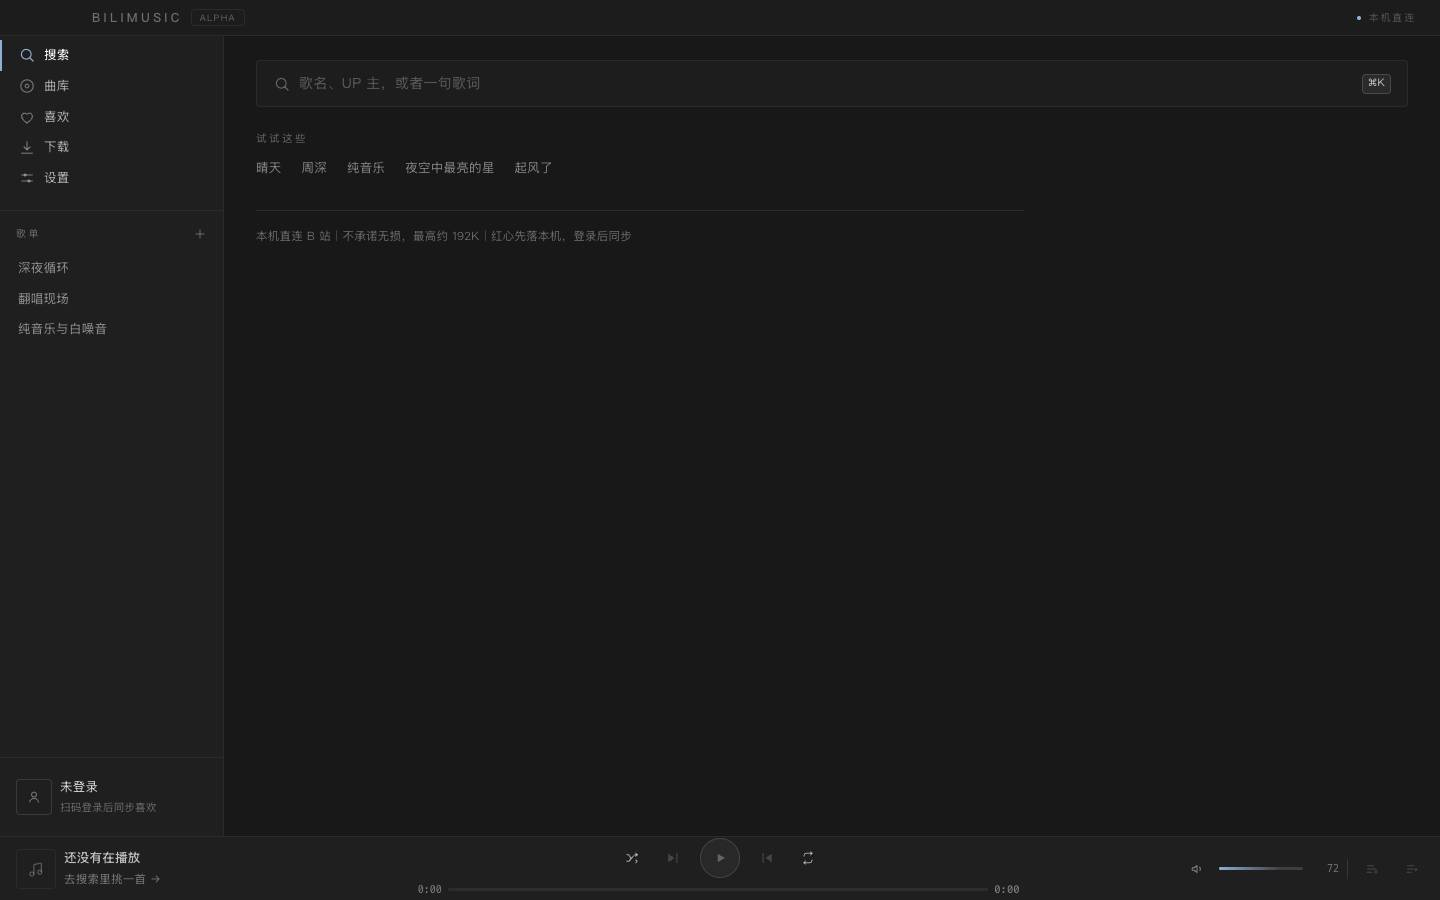
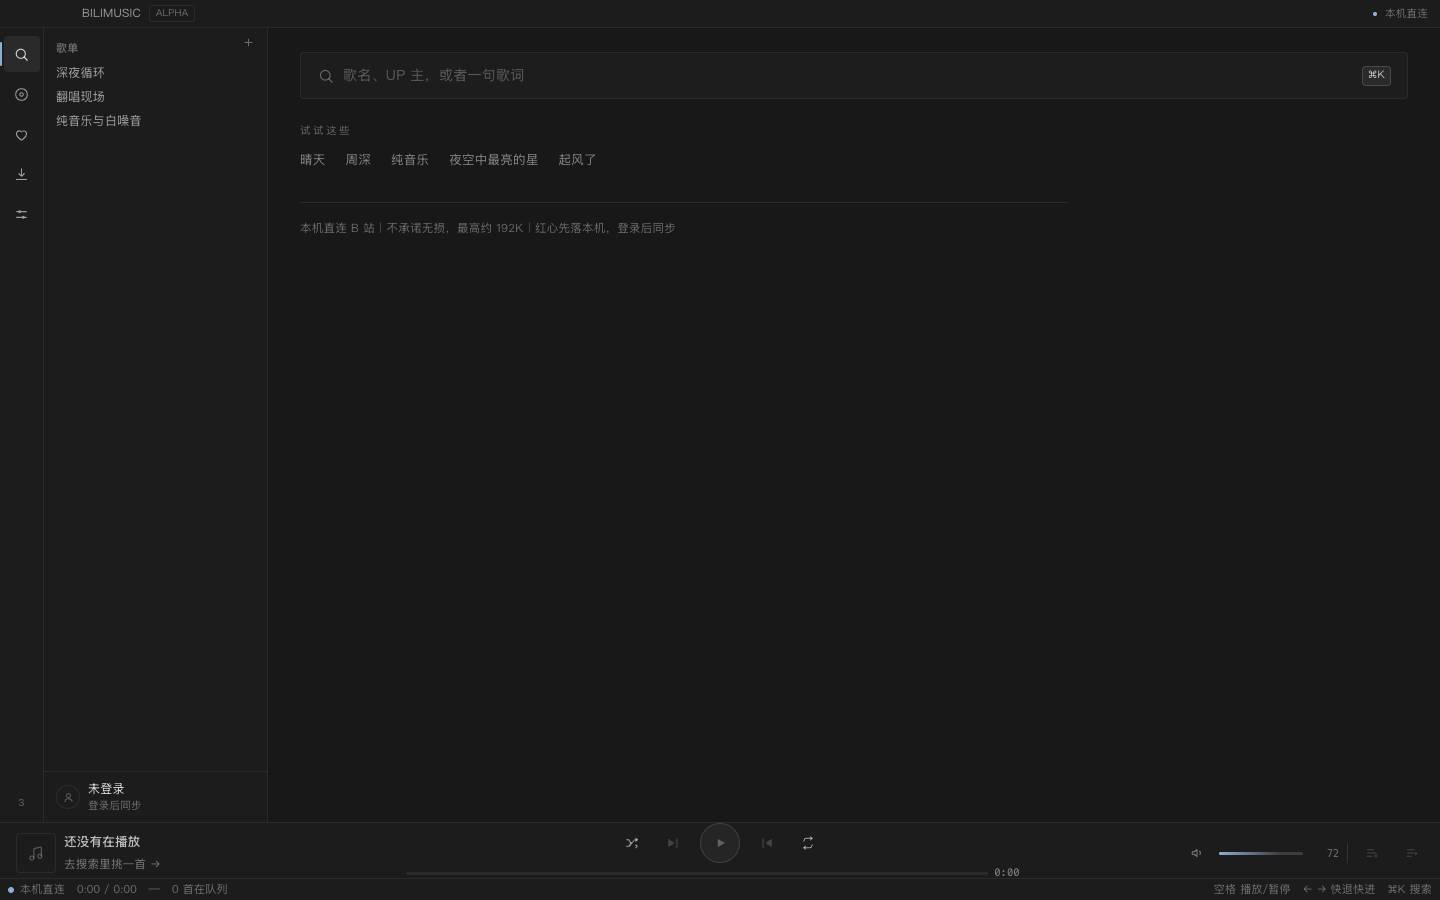
style: 五段式编辑器骨架——图标条、浏览器侧栏、状态条、24px 行高与 hover 填充

diff --git a/apps/desktop/src/app/Sidebar.tsx b/apps/desktop/src/app/Sidebar.tsx
@@ -2,26 +2,17 @@ import { useState } from 'react'
 import type { View } from './appStore'
 import { useAppStore } from './appStore'
 import { useAuthStore } from '../features/auth/authStore'
-import { useDownloadsStore } from '../features/downloads/downloadsStore'
 import { useLibraryStore } from '../features/library/libraryStore'
-import { useReactionStore } from '../features/reactions/reactionStore'
 import { CreatePlaylistModal } from '../features/library/CreatePlaylistModal'
 import { Icon } from '../shared/ui/Icon'
-import type { IconName } from '../shared/ui/Icon'
 import { Skeleton } from '../shared/ui/Skeleton'
 
-type NavItem = { view: View; label: string; icon: IconName }
-
-const NAV: readonly NavItem[] = [
-  { view: { kind: 'search' }, label: '搜索', icon: 'search' },
-  { view: { kind: 'library' }, label: '曲库', icon: 'library' },
-  { view: { kind: 'liked' }, label: '喜欢', icon: 'heart' },
-  { view: { kind: 'downloads' }, label: '下载', icon: 'download' },
-  { view: { kind: 'settings' }, label: '设置', icon: 'settings' },
-]
-
-/** 左栏与主区共用同一条发丝线：激活项靠左侧 2px 色条标记，不再铺底色。 */
-const ROW = 't group flex items-center border-l-2 text-left'
+/** 侧栏行：24px 高，hover 是深灰填充而不是只改文字色——这是编辑器式列表的通用手感。 */
+const ROW =
+  't mx-1 flex h-6 items-center gap-2 rounded-[3px] px-2 text-left text-[12px]'
+const ROW_IDLE = 'text-[var(--text-2)] hover:bg-[var(--hover)] hover:text-[var(--text-1)]'
+const ROW_ACTIVE = 'bg-[var(--hover)] text-[var(--text-1)]'
+const SECTION = 'px-3 pb-1 pt-3 text-[11px] font-medium text-[var(--text-3)]'
 
 export function Sidebar() {
   const view = useAppStore((state) => state.view)
@@ -29,65 +20,36 @@ export function Sidebar() {
   const setAuthOpen = useAppStore((state) => state.setAuthOpen)
   const playlists = useLibraryStore((state) => state.playlists)
   const auth = useAuthStore((state) => state.auth)
-  const likedCount = useReactionStore((state) => state.likedTracks.length)
-  const downloads = useDownloadsStore((state) => state.items)
   const [creating, setCreating] = useState(false)
 
-  const runningDownloads = (downloads ?? []).filter((item) => item.state === 'running' || item.state === 'queued').length
   const user = auth?.logged_in === true ? auth.user : null
 
   return (
-    <aside className="flex w-[224px] shrink-0 flex-col overflow-hidden border-r border-hairline bg-[var(--panel)]">
-      <nav className="flex flex-col pt-1">
-        {NAV.map((item) => {
-          const active = view.kind === item.view.kind
-          const badge = item.view.kind === 'liked' ? likedCount : item.view.kind === 'downloads' ? runningDownloads : 0
-          return (
-            <button
-              key={item.view.kind}
-              type="button"
-              aria-current={active ? 'page' : undefined}
-              onClick={() => navigate(item.view)}
-              className={[
-                ROW,
-                'gap-2 px-4 py-1.5 text-[12.5px]',
-                active ? 'border-[var(--accent)] text-white' : 'border-transparent text-white/62 hover:text-white',
-              ].join(' ')}
-            >
-              <span className={active ? 'text-[var(--accent)]' : 'text-white/40 group-hover:text-white/80'}>
-                <Icon name={item.icon} />
-              </span>
-              <span className="flex-1">{item.label}</span>
-              {badge > 0 ? (
-                <span className="rounded-full bg-white/10 px-1.5 py-[1px] font-mono text-[10px] text-white/55">{badge}</span>
-              ) : null}
-            </button>
-          )
-        })}
-      </nav>
-
-      <div className="mt-4 flex items-center justify-between border-t border-hairline pl-4 pr-3 pb-1 pt-3">
-        <span className="text-[10px] uppercase tracking-[0.22em] text-white/32">歌单</span>
+    <aside className="flex w-[224px] shrink-0 flex-col overflow-hidden border-r border-hairline bg-[var(--panel-alt)]">
+      <div className="flex items-center justify-between pr-2">
+        <span className={SECTION}>歌单</span>
         <button
           type="button"
           aria-label="新建歌单"
           title="新建歌单"
           onClick={() => setCreating(true)}
-          className="t press rounded-[4px] p-1 text-white/34 hover:text-white"
+          className="t -mt-1 rounded-[3px] p-1 text-[var(--text-3)] hover:bg-[var(--hover)] hover:text-[var(--text-1)]"
         >
-          <Icon name="plus" size={14} />
+          <Icon name="plus" size={13} />
         </button>
       </div>
 
-      <div className="flex min-h-0 flex-1 flex-col overflow-y-auto py-1">
+      <div className="flex min-h-0 flex-1 flex-col overflow-y-auto pb-2">
         {playlists === null ? (
-          <div className="space-y-2.5 px-4 py-2">
-            <Skeleton className="h-3 w-3/4" />
-            <Skeleton className="h-3 w-2/3" />
-            <Skeleton className="h-3 w-4/5" />
+          <div className="space-y-2 px-3 py-1">
+            <Skeleton className="h-2.5 w-3/4" />
+            <Skeleton className="h-2.5 w-2/3" />
+            <Skeleton className="h-2.5 w-4/5" />
           </div>
         ) : playlists.length === 0 ? (
-          <p className="px-4 py-2 text-[11.5px] leading-relaxed text-white/32">还没有歌单，点上面的加号建一个。</p>
+          <p className="px-3 py-1 text-[11.5px] leading-relaxed text-[var(--text-3)]">
+            还没有歌单，点上面的加号建一个。
+          </p>
         ) : (
           playlists.map((playlist) => {
             const active = view.kind === 'playlist' && view.id === playlist.id
@@ -98,11 +60,7 @@ export function Sidebar() {
                 aria-current={active ? 'page' : undefined}
                 title={playlist.name}
                 onClick={() => navigate({ kind: 'playlist', id: playlist.id, name: playlist.name })}
-                className={[
-                  ROW,
-                  'truncate px-4 py-1.5 text-[12.5px]',
-                  active ? 'border-[var(--accent)] text-white' : 'border-transparent text-white/48 hover:text-white',
-                ].join(' ')}
+                className={[ROW, active ? ROW_ACTIVE : ROW_IDLE].join(' ')}
               >
                 <span className="truncate">{playlist.name}</span>
               </button>
@@ -111,33 +69,28 @@ export function Sidebar() {
         )}
       </div>
 
-      <div className="border-t border-hairline p-3">
-        <button
-          type="button"
-          onClick={() => (user ? navigate({ kind: 'settings' }) : setAuthOpen(true))}
-          className="t flex w-full items-center gap-2 px-1 py-2 text-left"
-        >
-          {user?.avatar ? (
-            <img src={user.avatar} alt="" className="h-9 w-9 rounded-[4px] border border-white/12 object-cover" />
-          ) : user ? (
-            <span className="flex h-9 w-9 items-center justify-center rounded-[4px] bg-white/10 text-[12.5px] font-medium text-white/90">
-              {user.uname.slice(0, 1)}
-            </span>
-          ) : (
-            <span className="flex h-9 w-9 items-center justify-center rounded-[4px] border border-white/12 text-white/40">
-              <Icon name="user" size={16} />
-            </span>
-          )}
-          <span className="min-w-0 flex-1">
-            <span className="block truncate text-[12.5px] text-white/82">{user ? user.uname : '未登录'}</span>
-            <span className="mt-1 block truncate text-[10.5px] text-white/32">
-              {user ? `UID ${user.mid}` : '扫码登录后同步喜欢'}
-            </span>
+      <button
+        type="button"
+        onClick={() => setAuthOpen(true)}
+        className="t flex shrink-0 items-center gap-2 border-t border-hairline px-3 py-2 text-left hover:bg-[var(--hover)]"
+      >
+        <span className="flex h-6 w-6 items-center justify-center rounded-full border border-hairline text-[var(--text-3)]">
+          <Icon name="user" size={13} />
+        </span>
+        <span className="min-w-0">
+          <span className="block truncate text-[12px] text-[var(--text-1)]">
+            {user?.uname ?? '未登录'}
           </span>
-        </button>
-      </div>
+          <span className="block truncate text-[10.5px] text-[var(--text-3)]">
+            {user ? '已连接 B 站' : '登录后同步'}
+          </span>
+        </span>
+      </button>
 
       <CreatePlaylistModal open={creating} onClose={() => setCreating(false)} />
     </aside>
   )
 }
+
+
+export type { View }

diff --git a/apps/desktop/src/app/IconRail.tsx b/apps/desktop/src/app/IconRail.tsx
@@ -1,0 +1,81 @@
+import type { View } from './appStore'
+import { useAppStore } from './appStore'
+import { useDownloadsStore } from '../features/downloads/downloadsStore'
+import { useLibraryStore } from '../features/library/libraryStore'
+import { useReactionStore } from '../features/reactions/reactionStore'
+import { Icon } from '../shared/ui/Icon'
+import type { IconName } from '../shared/ui/Icon'
+
+type NavItem = { view: View; label: string; icon: IconName }
+
+const NAV: readonly NavItem[] = [
+  { view: { kind: 'search' }, label: '搜索', icon: 'search' },
+  { view: { kind: 'library' }, label: '曲库', icon: 'library' },
+  { view: { kind: 'liked' }, label: '喜欢', icon: 'heart' },
+  { view: { kind: 'downloads' }, label: '下载', icon: 'download' },
+  { view: { kind: 'settings' }, label: '设置', icon: 'settings' },
+]
+
+/**
+ * 图标条。编辑器式外壳的第一段：只放图标，不带文字。
+ * 激活态用左侧 2px 色条加图标提亮，和侧栏的选中行是两套语义（这里是「切模块」，那里是「选中条目」）。
+ */
+export function IconRail() {
+  const view = useAppStore((state) => state.view)
+  const navigate = useAppStore((state) => state.navigate)
+  const liked = useReactionStore((state) => state.likedTracks.length)
+  const downloads = useDownloadsStore((state) => state.items)
+
+  return (
+    <nav aria-label="主导航" className="flex w-11 shrink-0 flex-col items-center gap-1 border-r border-hairline bg-[var(--panel-alt)] py-2">
+      {NAV.map((item) => {
+        const active = view.kind === item.view.kind
+        const running = (downloads ?? []).filter(
+          (d) => d.state === 'running' || d.state === 'queued',
+        ).length
+        const badge = item.view.kind === 'liked' ? liked : item.view.kind === 'downloads' ? running : 0
+        return (
+          <button
+            key={item.label}
+            type="button"
+            onClick={() => navigate(item.view)}
+            aria-label={item.label}
+            title={item.label}
+            aria-current={active ? 'page' : undefined}
+            className={[
+              't relative flex h-9 w-9 items-center justify-center rounded-[4px]',
+              active
+                ? 'bg-[var(--hover)] text-[var(--text-1)]'
+                : 'text-[var(--text-2)] hover:bg-[var(--hover)] hover:text-[var(--text-1)]',
+            ].join(' ')}
+          >
+            {active ? (
+              <span className="absolute -left-1 top-1.5 h-6 w-[2px] rounded-full bg-[var(--accent)]" />
+            ) : null}
+            <Icon name={item.icon} size={17} />
+            {badge > 0 ? (
+              <span className="absolute -right-0.5 -top-0.5 min-w-[14px] rounded-full bg-[var(--accent)] px-1 text-center text-[9px] leading-[14px] text-black">
+                {badge > 99 ? '99' : badge}
+              </span>
+            ) : null}
+          </button>
+        )
+      })}
+      <div className="mt-auto">
+        <PlaylistShortcut />
+      </div>
+    </nav>
+  )
+}
+
+function PlaylistShortcut() {
+  const playlists = useLibraryStore((state) => state.playlists)
+  return (
+    <span
+      className="num flex h-6 w-9 items-center justify-center text-[10px] text-[var(--text-3)]"
+      title={`${playlists?.length ?? 0} 个歌单`}
+    >
+      {playlists?.length ?? 0}
+    </span>
+  )
+}

diff --git a/apps/desktop/src/app/StatusBar.tsx b/apps/desktop/src/app/StatusBar.tsx
@@ -1,0 +1,35 @@
+import { usePlayerStore } from '../features/player/playerStore'
+import { formatTime } from '../shared/lib/format'
+
+/**
+ * 状态条。编辑器式外壳的最后一段：22px，11px 字，只放事实，不放操作。
+ * 播放器的短暂状态（码率、音源、队列长度）集中在这里，主界面就不用到处贴徽标。
+ */
+export function StatusBar() {
+  const snapshot = usePlayerStore((state) => state.snapshot)
+  const queue = usePlayerStore((state) => state.queue)
+
+  const quality = snapshot?.quality_kbps ?? null
+  const queued = queue?.items.length ?? 0
+
+  return (
+    <footer className="flex h-[22px] shrink-0 items-center justify-between border-t border-hairline bg-[var(--panel-alt)] px-2 text-[11px] text-[var(--text-3)]">
+      <div className="flex items-center gap-3">
+        <span className="flex items-center gap-1.5">
+          <span className="h-1.5 w-1.5 rounded-full bg-[var(--accent)]" />
+          本机直连
+        </span>
+        <span className="num">
+          {formatTime(snapshot?.position_ms ?? 0)} / {formatTime(snapshot?.duration_ms ?? 0)}
+        </span>
+        <span className="num">{quality ? `${quality}K` : '—'}</span>
+        <span className="num">{queued} 首在队列</span>
+      </div>
+      <div className="flex items-center gap-3">
+        <span>空格 播放/暂停</span>
+        <span>← → 快退快进</span>
+        <span>⌘K 搜索</span>
+      </div>
+    </footer>
+  )
+}

diff --git a/apps/desktop/src/app/TitleBar.tsx b/apps/desktop/src/app/TitleBar.tsx
@@ -2,15 +2,15 @@ export function TitleBar() {
   return (
     <div
       data-tauri-drag-region
-      className="relative z-20 flex h-9 shrink-0 items-center justify-between border-b border-hairline bg-white/[0.018] pl-[92px] pr-6"
+      className="relative z-20 flex h-7 shrink-0 items-center justify-between border-b border-hairline bg-[var(--panel-alt)] pl-[82px] pr-3"
     >
       <div className="flex items-center gap-2">
-        <span className="text-[12px] font-medium tracking-[0.26em] text-white/36">BILIMUSIC</span>
-        <span className="rounded-[4px] border border-hairline px-2 py-[1px] text-[9px] tracking-[0.12em] text-white/30">
+        <span className="text-[11.5px] text-[var(--text-2)]">BILIMUSIC</span>
+        <span className="rounded-[3px] border border-hairline px-1.5 text-[9.5px] text-[var(--text-3)]">
           ALPHA
         </span>
       </div>
-      <div className="flex items-center gap-2 text-[10px] tracking-[0.16em] text-white/24">
+      <div className="flex items-center gap-2 text-[10.5px] text-[var(--text-3)]">
         <span className="h-1 w-1 rounded-full bg-[var(--accent)]" />
         本机直连
       </div>

diff --git a/apps/desktop/src/app/App.tsx b/apps/desktop/src/app/App.tsx
@@ -13,7 +13,9 @@ import { useAccentVars, useTrackAccent } from '../shared/lib/accent'
 import { ToastHost } from '../shared/ui/ToastHost'
 import type { View } from './appStore'
 import { useAppStore } from './appStore'
+import { IconRail } from './IconRail'
 import { Sidebar } from './Sidebar'
+import { StatusBar } from './StatusBar'
 import { TitleBar } from './TitleBar'
 import { useBootstrap } from './useBootstrap'
 import { useShortcuts } from './useShortcuts'
@@ -62,6 +64,7 @@ export default function App() {
       <TitleBar />
 
       <div className="relative z-10 flex min-h-0 flex-1">
+        <IconRail />
         <Sidebar />
         <main className="block min-w-0 flex-1 overflow-hidden">
           <CurrentView view={view} />
@@ -72,6 +75,7 @@ export default function App() {
       </div>
 
       <PlayerBar />
+      <StatusBar />
       <ToastHost />
       <AuthModal />
     </div>

diff --git a/apps/desktop/src/features/player/PlayerBar.tsx b/apps/desktop/src/features/player/PlayerBar.tsx
@@ -99,10 +99,10 @@ export function PlayerBar() {
 
   return (
     // 三等分列宽让控制区真正落在窗口中线，两侧对称才不会显得偏。
-    <section className="relative z-20 grid h-16 shrink-0 overflow-hidden grid-cols-[minmax(0,1fr)_minmax(340px,1.7fr)_minmax(0,1fr)] items-center gap-6 border-t border-hairline bg-[var(--panel)] px-3">
+    <section className="relative z-20 grid h-14 shrink-0 overflow-hidden grid-cols-[minmax(0,1fr)_minmax(340px,1.7fr)_minmax(0,1fr)] items-center gap-6 border-t border-hairline bg-[var(--panel)] px-3">
       <TrackInfo track={track} quality={snapshot?.quality_kbps ?? null} />
 
-      <div className="flex min-w-0 flex-col items-center gap-0.5">
+      <div className="flex min-w-0 flex-col items-center gap-0">
         <Transport />
         <PlaybackProgress />
       </div>

diff --git a/apps/desktop/src/features/player/PlaybackProgress.tsx b/apps/desktop/src/features/player/PlaybackProgress.tsx
@@ -17,7 +17,6 @@ export function PlaybackProgress() {
   }, [])
 
   const ratio = scrub ?? (duration > 0 ? Math.min(1, now / duration) : 0)
-  const shown = scrub === null ? Math.min(now, duration) : scrub * duration
 
   const commit = (value: number): void => {
     if (duration <= 0) return
@@ -27,7 +26,6 @@ export function PlaybackProgress() {
 
   return (
     <div className="flex w-full items-center gap-1.5">
-      <span className="num w-9 shrink-0 text-right font-mono text-[10px] text-white/40">{formatTime(shown)}</span>
       <div className="min-w-0 flex-1">
         <Slider
           value={ratio}

diff --git a/apps/desktop/src/styles.css b/apps/desktop/src/styles.css
@@ -23,9 +23,11 @@
   color-scheme: dark;
 
   /* 面板与分隔 */
-  --panel: #1f1f1f;
-  --panel-raised: #242424;
+  --panel: #1c1c1c;
+  --panel-alt: #1c1c1c;
+  --panel-raised: #232323;
   --panel-hover: #2a2a2a;
+  --hover: #2a2a2a;
   --line: #2b2b2b;
 
   /* 文本三级 */
